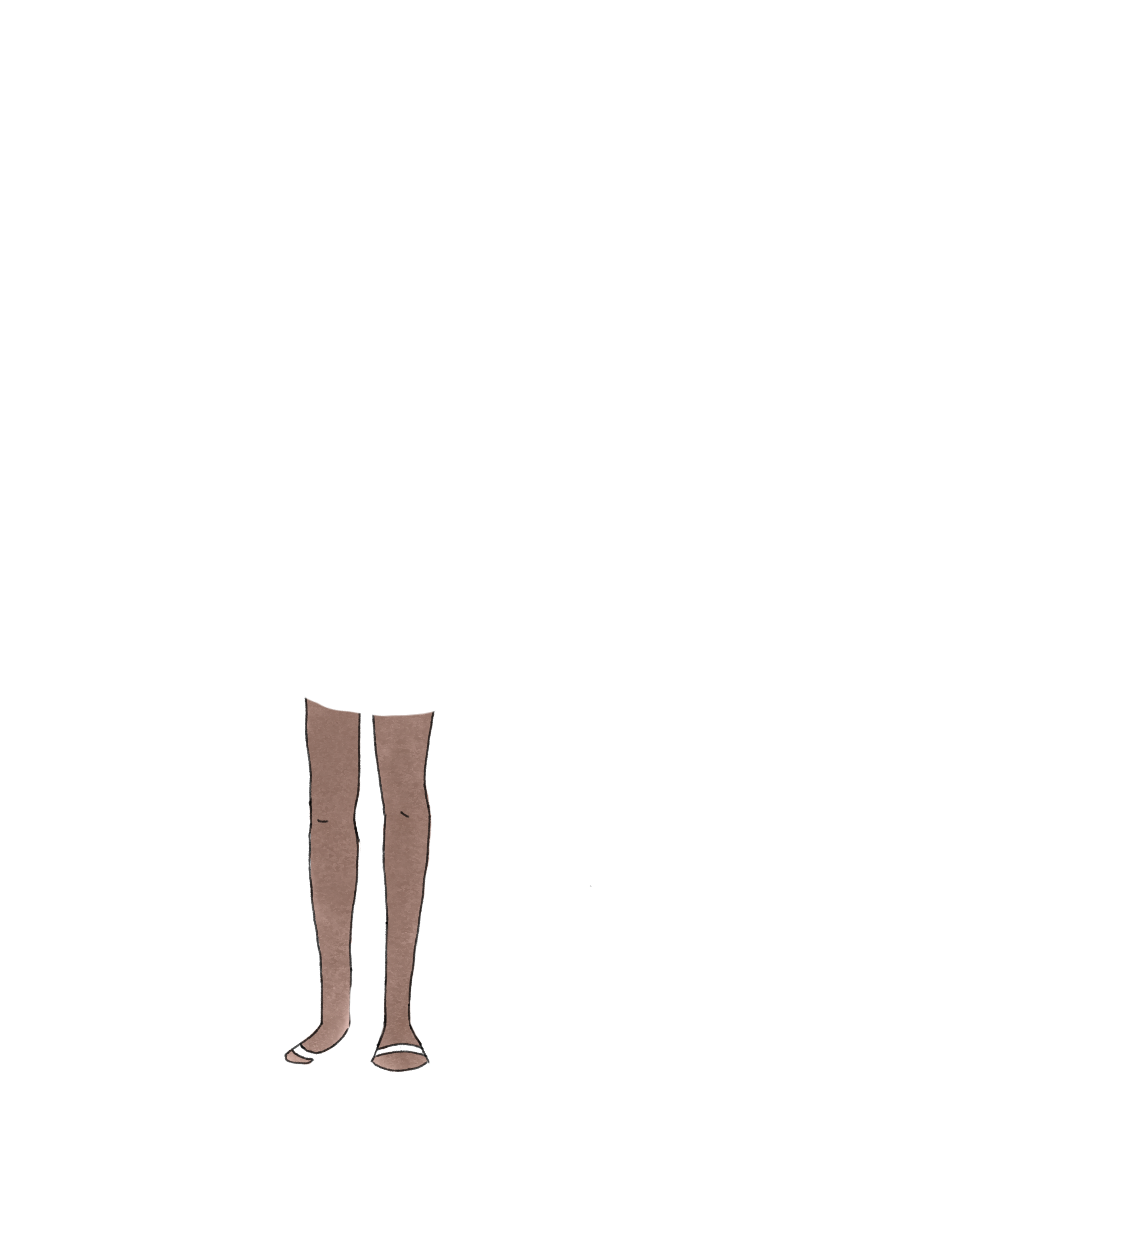
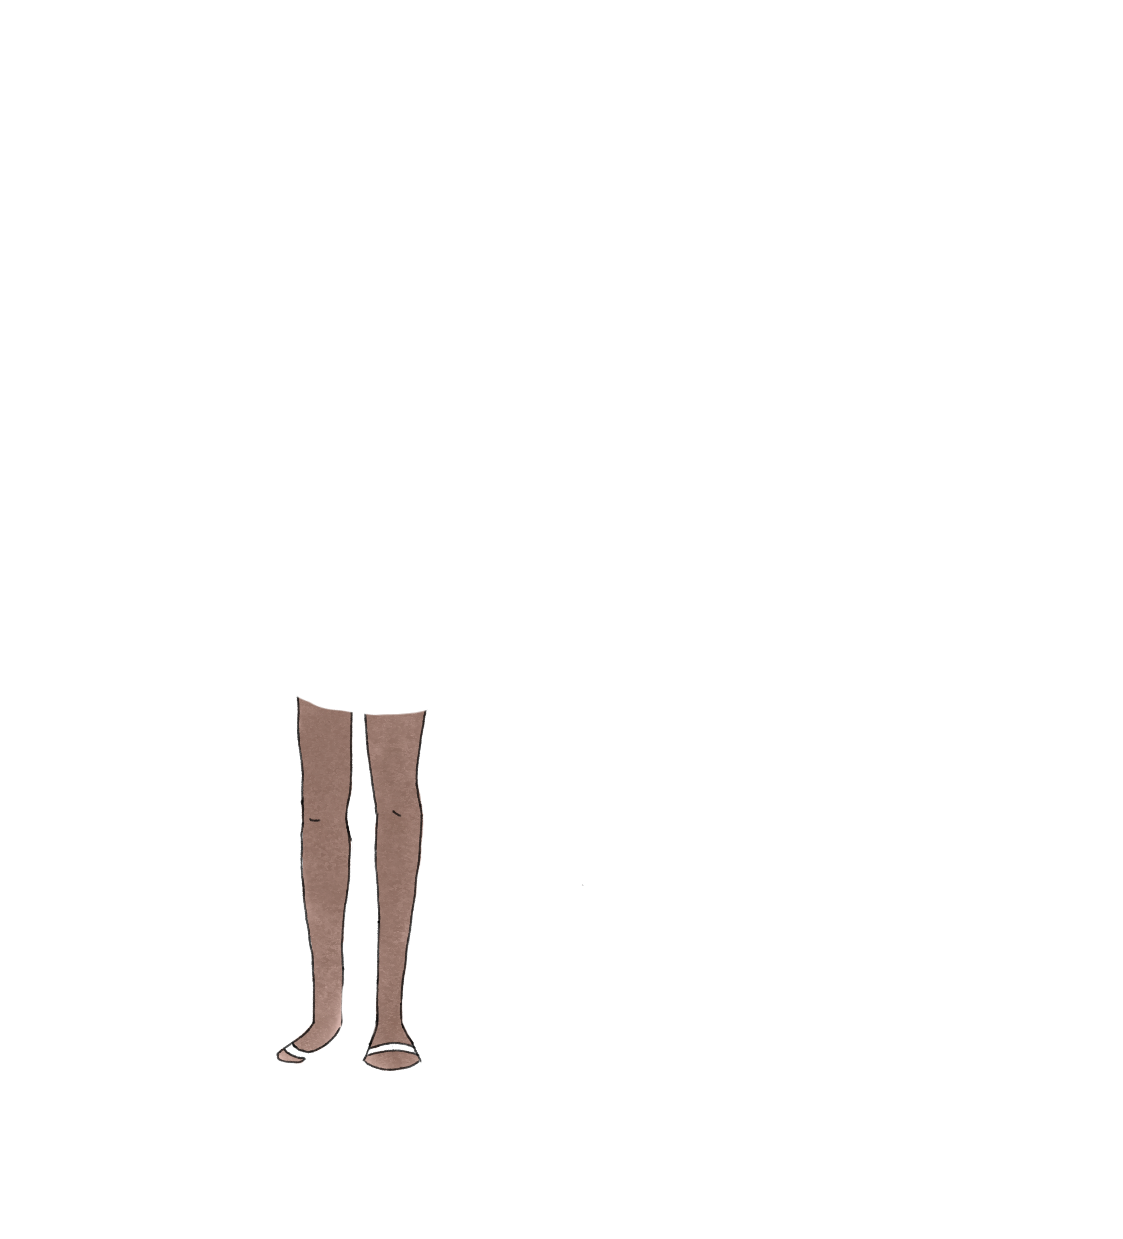
updated misalgined images

Changed region(s): [[0.2493, 0.5521, 0.4052, 0.8894]]

diff --git a/src/dress_up.py b/src/dress_up.py
@@ -5,27 +5,35 @@ import pygame
 def load_images():
 
     body = pygame.image.load("src/images/Base.png").convert_alpha()
-    tights = pygame.image.load("src/images/Tights.png")
+
+    tights = pygame.image.load("src/images/Tights.png").convert_alpha()
+
     dresses = [
-        pygame.image.load("src/images/Dress1.png")
-        pygame.image.load("src/images/Dress2.png")
-        pygame.image.load("src/images/Dress3.png")
-        pygame.image.load("src/images/Dress4.png")
+        pygame.image.load("src/images/Dress1.png").convert_alpha(),
+        pygame.image.load("src/images/Dress2.png").convert_alpha(),
+        pygame.image.load("src/images/Dress3.png").convert_alpha(),
+        pygame.image.load("src/images/Dress4.png").convert_alpha()
     ]
-    
+
     shoes = [
-        pygame.image.load("src/images/Shoes1.png")
-        pygame.image.load("src/images/Shoes2.png")
-        pygame.image.load("src/images/Shoes3.png")
-        pygame.image.load("src/images/Shoes4.png")
-        ]
+        pygame.image.load("src/images/Shoes1.png").convert_alpha(),
+        pygame.image.load("src/images/Shoes2.png").convert_alpha(),
+        pygame.image.load("src/images/Shoes3.png").convert_alpha(),
+        pygame.image.load("src/images/Shoes4.png").convert_alpha()
+    ]
 
-
-    return body, dresses, shoes, tights
+    return body, dresses, shoes
 
 
 # HANDLE EVENTS
-def handle_events(dress_button, dresses, current_dress):
+def handle_events(
+    dress_buttons,
+    shoe_buttons,
+    dresses,
+    shoes,
+    current_dress,
+    current_shoes
+):
 
     running = True
 
@@ -38,28 +46,54 @@ def handle_events(dress_button, dresses, current_dress):
         # MOUSE CLICK
         if event.type == pygame.MOUSEBUTTONDOWN:
 
-            if dress_button.collidepoint(event.pos):
+            # CHECK DRESS BUTTONS
+            for i in range(len(dress_buttons)):
 
-                current_dress = dresses
+                if dress_buttons[i].collidepoint(event.pos):
 
-    return running, current_dress
+                    current_dress = dresses[i]
+
+            # CHECK SHOE BUTTONS
+            for i in range(len(shoe_buttons)):
+
+                if shoe_buttons[i].collidepoint(event.pos):
+
+                    current_shoes = shoes[i]
+
+    return running, current_dress, current_shoes
 
 
 # DRAW EVERYTHING
-def draw_game(screen, body, current_dress, dress_button):
+def draw_game(
+    screen,
+    body,
+    current_dress,
+    current_shoes,
+    dress_buttons,
+    shoe_buttons
+):
 
     # BACKGROUND
     screen.fill((255, 200, 200))
 
-    # BODY
+    # DRAW CHARACTER
     screen.blit(body, (250, 100))
 
-    # DRESS
+    # DRAW CURRENT DRESS
     if current_dress:
         screen.blit(current_dress, (250, 100))
 
-    # BUTTON
-    pygame.draw.rect(screen, (0, 0, 255), dress_button)
+    # DRAW CURRENT SHOES
+    if current_shoes:
+        screen.blit(current_shoes, (250, 100))
+
+    # DRAW DRESS BUTTONS
+    for button in dress_buttons:
+        pygame.draw.rect(screen, (200, 0, 200), button)
+
+    # DRAW SHOE BUTTONS
+    for button in shoe_buttons:
+        pygame.draw.rect(screen, (0, 0, 200), button)
 
     # UPDATE SCREEN
     pygame.display.update()
@@ -76,23 +110,41 @@ def main():
     clock = pygame.time.Clock()
 
     # LOAD IMAGES
-    body, dresses = load_images()
+    body, dresses, shoes = load_images()
 
-    # CURRENT CLOTHES
+    # CURRENT OUTFIT
     current_dress = None
+    current_shoes = None
 
-    # BUTTONS
-    dress_button = pygame.Rect(50, 50, 100, 50)
+    # DRESS BUTTONS
+    dress_buttons = [
+        pygame.Rect(50, 50, 80, 40),
+        pygame.Rect(50, 100, 80, 40),
+        pygame.Rect(50, 150, 80, 40),
+        pygame.Rect(50, 200, 80, 40)
+    ]
 
+    # SHOE BUTTONS
+    shoe_buttons = [
+        pygame.Rect(150, 50, 80, 40),
+        pygame.Rect(150, 100, 80, 40),
+        pygame.Rect(150, 150, 80, 40),
+        pygame.Rect(150, 200, 80, 40)
+    ]
+
+    # GAME LOOP
     running = True
 
     while running:
 
         # HANDLE INPUT
-        running, current_dress = handle_events(
-            dress_button,
-            dress1,
-            current_dress
+        running, current_dress, current_shoes = handle_events(
+            dress_buttons,
+            shoe_buttons,
+            dresses,
+            shoes,
+            current_dress,
+            current_shoes
         )
 
         # DRAW FRAME
@@ -100,12 +152,17 @@ def main():
             screen,
             body,
             current_dress,
-            dress_button
+            current_shoes,
+            dress_buttons,
+            shoe_buttons
         )
 
         clock.tick(60)
 
     pygame.quit()
+
+
+# START GAME
 
 
 if __name__ == "__main__":